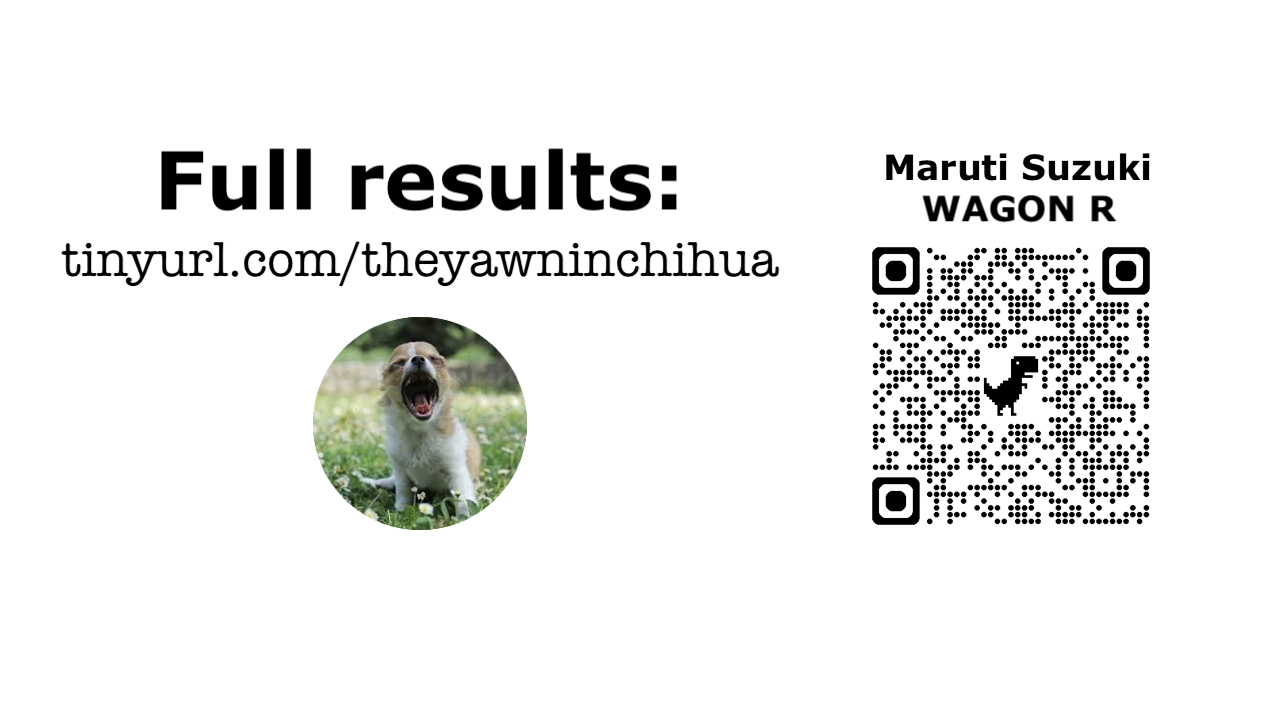
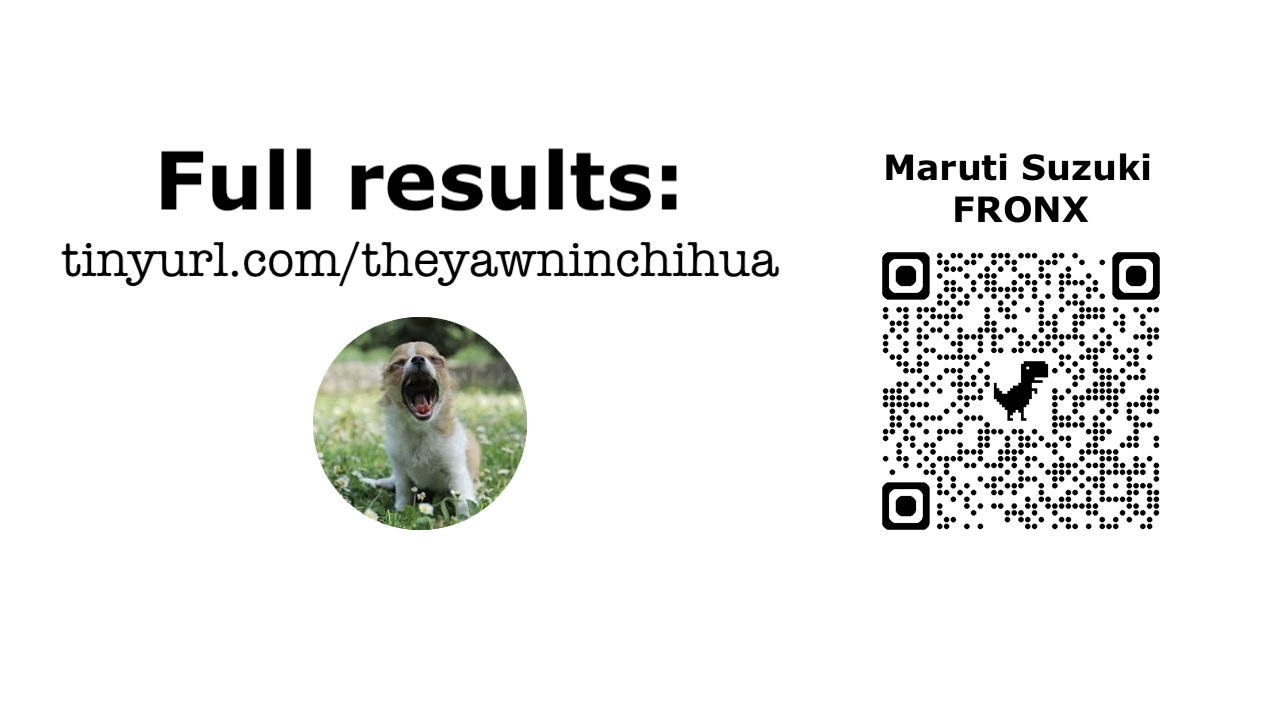
fix Fronx video and docs

Changed region(s): [[0.6562, 0.2444, 0.9062, 0.7333]]

diff --git a/sbr/2026-06-05-FRONX-SigmaSCNG/index.html b/sbr/2026-06-05-FRONX-SigmaSCNG/index.html
@@ -77,14 +77,14 @@
         <br><br>
 
         <b>VIDEO: </b>
-        <center><iframe width="560" height="315" src="https://www.youtube.com/embed/ezankV1ZBhw?si=S8VYH3-QwIHgXRum" title="YouTube video player" frameborder="0" allow="accelerometer; autoplay; clipboard-write; encrypted-media; gyroscope; picture-in-picture; web-share" referrerpolicy="strict-origin-when-cross-origin" allowfullscreen></iframe></center>
+        <center><iframe width="560" height="315" src="https://www.youtube.com/embed/jNf1B0B1ULI?si=QiG0Lt1aVz53z3sC" title="YouTube video player" frameborder="0" allow="accelerometer; autoplay; clipboard-write; encrypted-media; gyroscope; picture-in-picture; web-share" referrerpolicy="strict-origin-when-cross-origin" allowfullscreen></iframe></center>
         <br><br>
 
         <b>PUBLICATION DATE: </b>05.06.2026<br>
 
-        <b>MANUAL LINK: </b><a href="https://az-ci-afde-prd-arena-03-efddeyfchzf9akbb.z01.azurefd.net/msilintiwebpdfcopyfromdefault/Tour_H3_99011M69RT8-74W.pdf">https://az-ci-afde-prd-arena-03-efddeyfchzf9akbb.z01.azurefd.net/msilintiwebpdfcopyfromdefault/Tour_H3_99011M69RT8-74W.pdf</a><br>
+        <b>MANUAL LINK: </b><a href="https://marutisuzuki.scene7.com/is/content/maruti/NEXA-FRONX-Petrol-Manualpdf">https://marutisuzuki.scene7.com/is/content/maruti/NEXA-FRONX-Petrol-Manualpdf</a><br>
 
-        <b>BROCHURE LINK: </b><a href="https://az-ci-afde-prd-arena-03-efddeyfchzf9akbb.z01.azurefd.net/msilintiwebpdfcopyfromdefault/27112025WagonR_Tour_H3_Leaflet_A4.pdf">https://az-ci-afde-prd-arena-03-efddeyfchzf9akbb.z01.azurefd.net/msilintiwebpdfcopyfromdefault/27112025WagonR_Tour_H3_Leaflet_A4.pdf</a><br><br>
+        <b>BROCHURE LINK: </b><a href="https://www.nexaexperience.com/pdf-viewer?pdf=%2Fcontent%2Fdam%2Fmsil%2Fnexa%2Fin%2Fen%2Fassets%2Fcars%2Ffronx%2Fdocuments%2FNEXA-Fronx-Brochure.pdf">https://www.nexaexperience.com/pdf-viewer?pdf=%2Fcontent%2Fdam%2Fmsil%2Fnexa%2Fin%2Fen%2Fassets%2Fcars%2Ffronx%2Fdocuments%2FNEXA-Fronx-Brochure.pdf</a><br><br>
 
         <a href="../index.html">click to go back to seatbelt reminder evaluations</a>
     </font>
